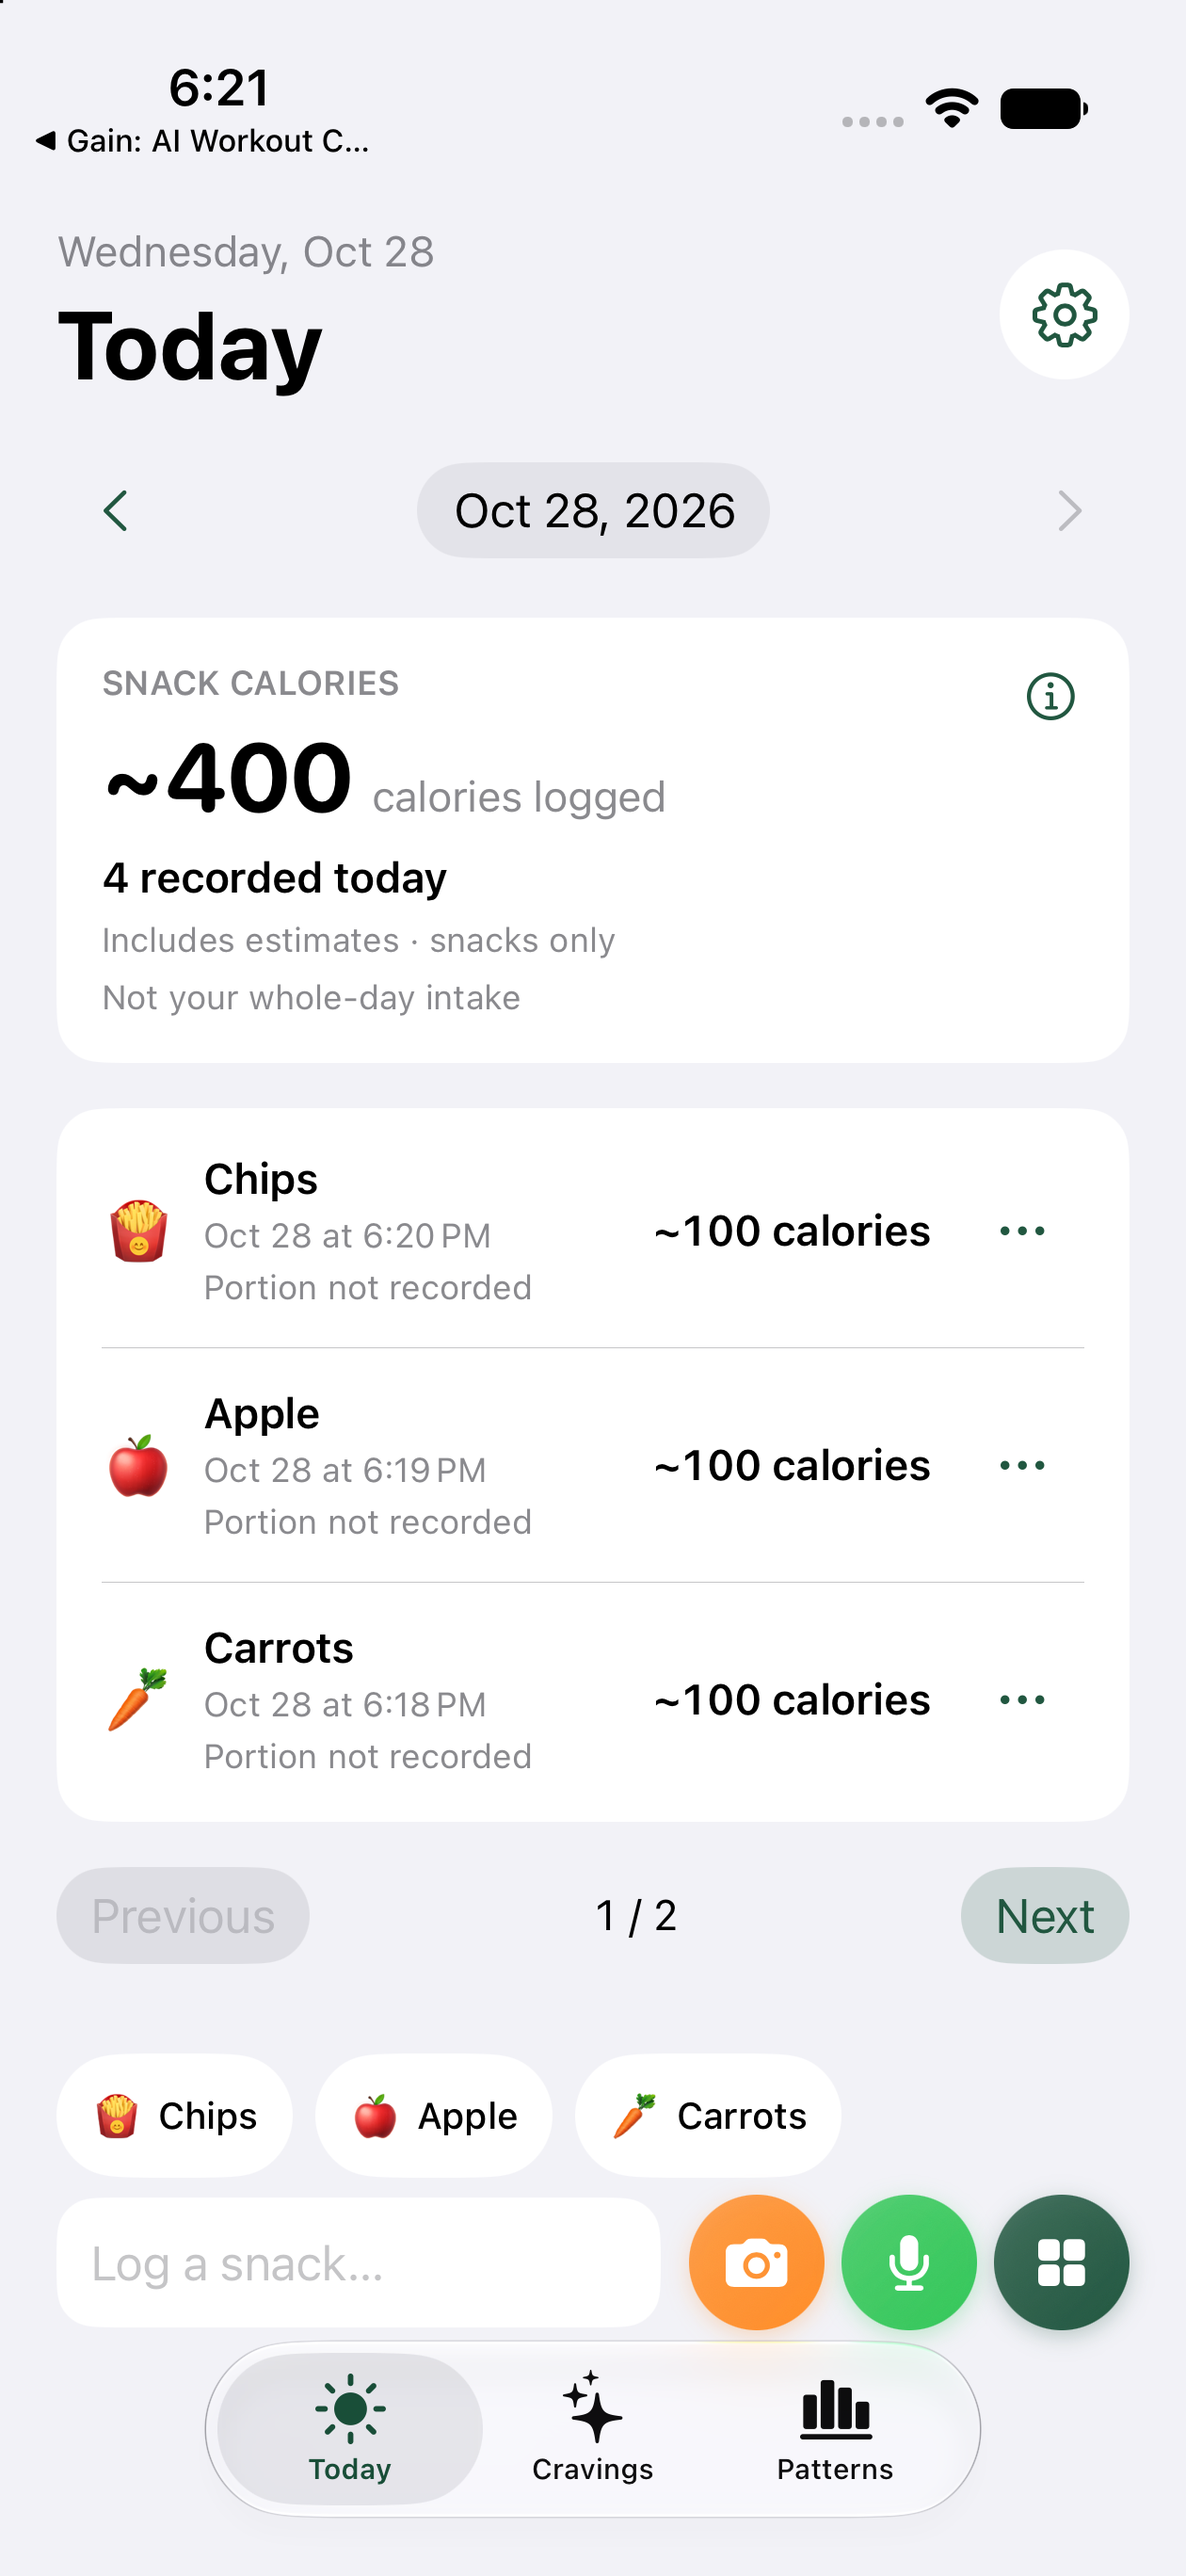
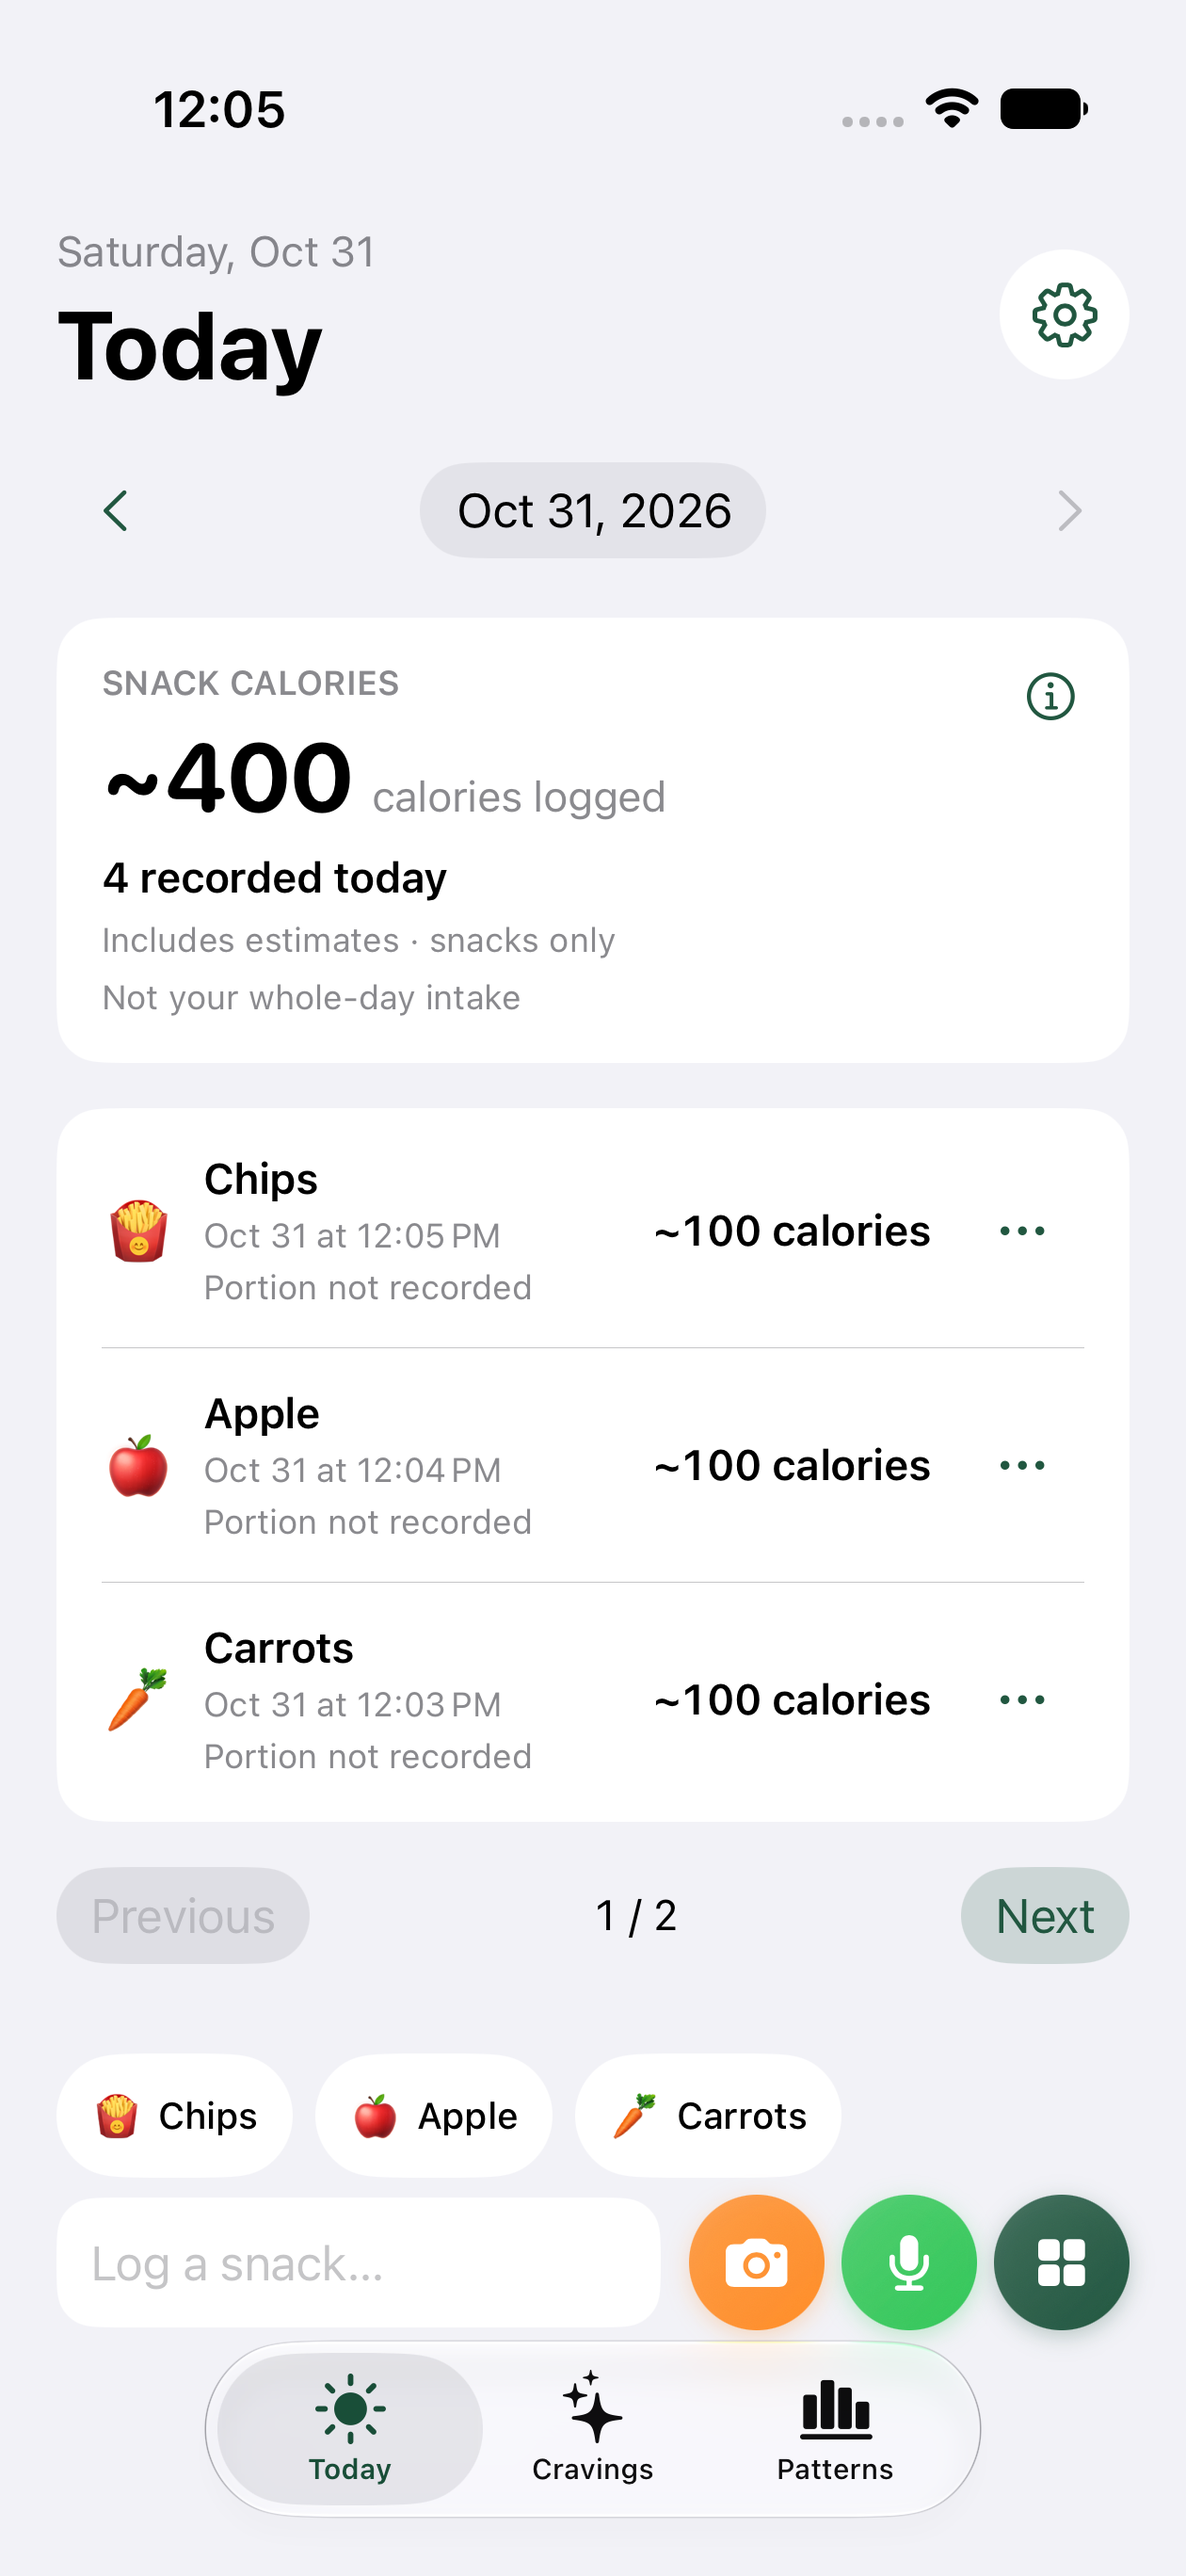
Refresh current screenshots and restore terms styling

diff --git a/assets/site-v2.css b/assets/site-v2.css
@@ -1,3 +1,6 @@
 
 :root{font-family:-apple-system,BlinkMacSystemFont,"Segoe UI",sans-serif;color:#182328;background:#fff;color-scheme:light;--muted:#59666b;--line:#e0e6e8}*{box-sizing:border-box}html{scroll-behavior:smooth;scroll-padding-top:90px}body{margin:0;-webkit-font-smoothing:antialiased}a{color:inherit}button{font:inherit;cursor:pointer}a:focus-visible,button:focus-visible,summary:focus-visible{outline:3px solid var(--brand);outline-offset:5px}.shell{width:min(1240px,calc(100% - 80px));margin:auto}.skip{position:absolute;top:-80px;left:20px;background:#182328;color:white;padding:12px}.skip:focus{top:8px;z-index:5}.nav{display:flex;align-items:center;gap:28px;min-height:90px;border-bottom:1px solid var(--line)}.brand{display:flex;align-items:center;gap:10px;text-decoration:none;font-size:24px;font-weight:750;letter-spacing:-.8px}.brand img{width:38px;height:38px;border-radius:10px}.nav nav{display:flex;gap:25px;margin-left:auto;font-size:14px}.nav nav a,footer a{text-decoration:none}.button{display:inline-flex;align-items:center;justify-content:center;min-height:50px;padding:13px 22px;border-radius:9px;text-decoration:none;font-weight:650;line-height:1.3}.primary{background:var(--brand);color:#fff}.secondary{border:1px solid var(--line);background:#fff}.hero{display:grid;grid-template-columns:1.08fr .92fr;align-items:center;gap:65px;padding:52px 0 65px}.eyebrow{color:var(--brand);font-size:13px;font-weight:700;letter-spacing:.12em;text-transform:uppercase}.hero h1{font-size:clamp(42px,4.6vw,66px);line-height:1.06;letter-spacing:-.055em;margin:20px 0 24px;white-space:pre-line}.intro{font-size:22px;line-height:1.5;color:var(--muted);max-width:540px}.actions{display:flex;gap:12px;flex-wrap:wrap;margin:30px 0 17px}.release{font-size:13px;line-height:1.6;color:var(--muted);max-width:520px}.product{background:var(--pale);border-radius:18px;padding:24px;min-width:0;text-align:center}.phone{display:block;margin:auto;max-height:490px;max-width:100%;width:auto;border:1px solid #d4d8df;border-radius:24px;box-shadow:0 14px 28px #24304b1a}.caption{min-height:43px;margin:18px 0 12px;font-size:14px;color:var(--muted);line-height:1.5}.caption strong{color:#182328}.gallery-controls{display:flex;justify-content:center;gap:8px;flex-wrap:wrap}.gallery-controls button{border:1px solid #b6c1c5;background:white;border-radius:30px;padding:9px 12px;font-size:12px;min-height:36px}.gallery-controls button[aria-pressed=true]{background:var(--brand);color:white;border-color:var(--brand)}.section{border-top:1px solid var(--line);padding:65px 0}.section h2{font-size:clamp(30px,3vw,42px);line-height:1.12;letter-spacing:-.04em;margin:0 0 35px}.steps{display:grid;grid-template-columns:repeat(3,1fr);gap:0}.steps article{padding:0 28px;border-right:1px solid var(--line)}.steps article:first-child{padding-left:0}.steps article:last-child{padding-right:0;border:0}.num{color:var(--brand);font-size:13px;font-weight:700}.steps h3{font-size:23px;letter-spacing:-.6px;margin:13px 0}.steps p,.section>p{color:var(--muted);font-size:17px;line-height:1.65}.privacy{display:grid;grid-template-columns:1fr 1fr;gap:60px}.privacy h2{margin:0}.faq{max-width:850px}details{border-bottom:1px solid var(--line);padding:21px 0}summary{font-weight:650;font-size:18px;cursor:pointer;line-height:1.4}details p{font-size:16px;line-height:1.7;color:var(--muted);max-width:760px}.closing{background:var(--pale);border-radius:16px;padding:35px;display:flex;justify-content:space-between;align-items:center;gap:25px;margin:0 0 55px}.closing h2{font-size:28px;letter-spacing:-.8px;margin:0 0 8px}.closing p{margin:0;color:var(--muted);line-height:1.6}footer{border-top:1px solid var(--line);padding:26px 0 35px;display:flex;gap:22px;align-items:center;font-size:13px;color:var(--muted);flex-wrap:wrap}footer nav{display:flex;gap:18px;margin-left:auto}.page{max-width:850px;padding:50px 0 65px;line-height:1.75}.page h1{font-size:46px;line-height:1.1;letter-spacing:-1.8px}.page h2{font-size:25px;margin-top:32px}.page a{color:var(--brand);overflow-wrap:anywhere}.page li{margin:7px 0}.page img{max-width:100%}.gallery-link{display:block}.sr-only{position:absolute;clip:rect(0,0,0,0);width:1px;height:1px;overflow:hidden}
+.page .content{--spacing-lg:1.25rem;--spacing-2xl:2rem;--radius-lg:16px;--radius-sm:8px;--color-text-tertiary:#59666b;--color-text-secondary:#59666b;--color-bg-secondary:#eff7f2;--color-primary-blue:var(--brand)}
+.page .content .card{padding:1.5rem;border:1px solid var(--line);border-radius:16px;background:#fff}
+.page .content .card h2:first-child{margin-top:0}.page .content .text-center{text-align:center}.page .content .mb-2xl{margin-bottom:2rem}.page .content .button.primary{color:#fff}
 @media(max-width:900px){.shell{width:calc(100% - 40px)}.nav{gap:15px}.nav nav{gap:16px}.nav>.button{display:none}.hero{gap:28px}.intro{font-size:19px}.phone{max-height:430px}.product{padding:18px}.steps article{padding:0 18px}}@media(max-width:640px){.nav{min-height:76px}.nav nav a:first-child{display:none}.brand{font-size:21px}.brand img{width:32px;height:32px}.hero{grid-template-columns:1fr;gap:28px;padding:34px 0 42px}.hero h1{font-size:44px}.intro{font-size:20px;margin-bottom:0}.actions{margin:24px 0 14px}.phone{max-height:470px}.product{padding:24px 12px}.section{padding:42px 0}.steps{grid-template-columns:1fr;gap:25px}.steps article,.steps article:first-child,.steps article:last-child{border:0;border-bottom:1px solid var(--line);padding:0 0 24px}.steps article:last-child{border:0;padding-bottom:0}.privacy{grid-template-columns:1fr;gap:12px}.closing{padding:25px;display:block}.closing .button{margin-top:20px}footer{gap:20px}footer nav{margin-left:0;flex-wrap:wrap}.page h1{font-size:38px}}@media(prefers-reduced-motion:reduce){html{scroll-behavior:auto}}

diff --git a/index.html b/index.html
@@ -36,7 +36,7 @@ Understand a craving.</h1>
 <a class="button primary" href="https://apps.apple.com/app/id6755132658">View on App Store ↗</a>
 <a class="button secondary" href="#screens">Explore the app</a>
 </div>
-<p class="release">Screens from the latest tested 1.4.3 release candidate using demonstration entries. The current App Store version may differ.</p>
+<p class="release">Screens from the tested 1.4.4 release candidate using demonstration entries. The current App Store version may differ.</p>
 </div>
 <div class="product" id="screens" data-gallery>
 <a class="gallery-link" href="/snacksmart-website/assets/screenshots-current/01.png" target="_blank" rel="noopener noreferrer" aria-label="Open full-size SnackSmart screenshot">

diff --git a/terms.md b/terms.md
@@ -256,8 +256,7 @@ permalink: /terms/
 
   <div style="text-align: center; padding: var(--spacing-2xl); background: var(--color-bg-secondary); border-radius: var(--radius-lg);">
     <p style="font-size: 0.9rem; color: var(--color-text-secondary); margin-bottom: var(--spacing-lg);">By using SnackSmart, you acknowledge that you have read and understood these Terms of Service and our <a href="{{ '/privacy-policy' | relative_url }}" style="color: var(--color-primary-blue);">Privacy Policy</a>.</p>
-    <a href="{{ site.appstore_link | default: '#' }}" class="btn btn-primary">
-      <i class="fab fa-apple"></i>
+    <a href="{{ site.appstore_link | default: '#' }}" class="button primary">
       Download SnackSmart
     </a>
   </div>
